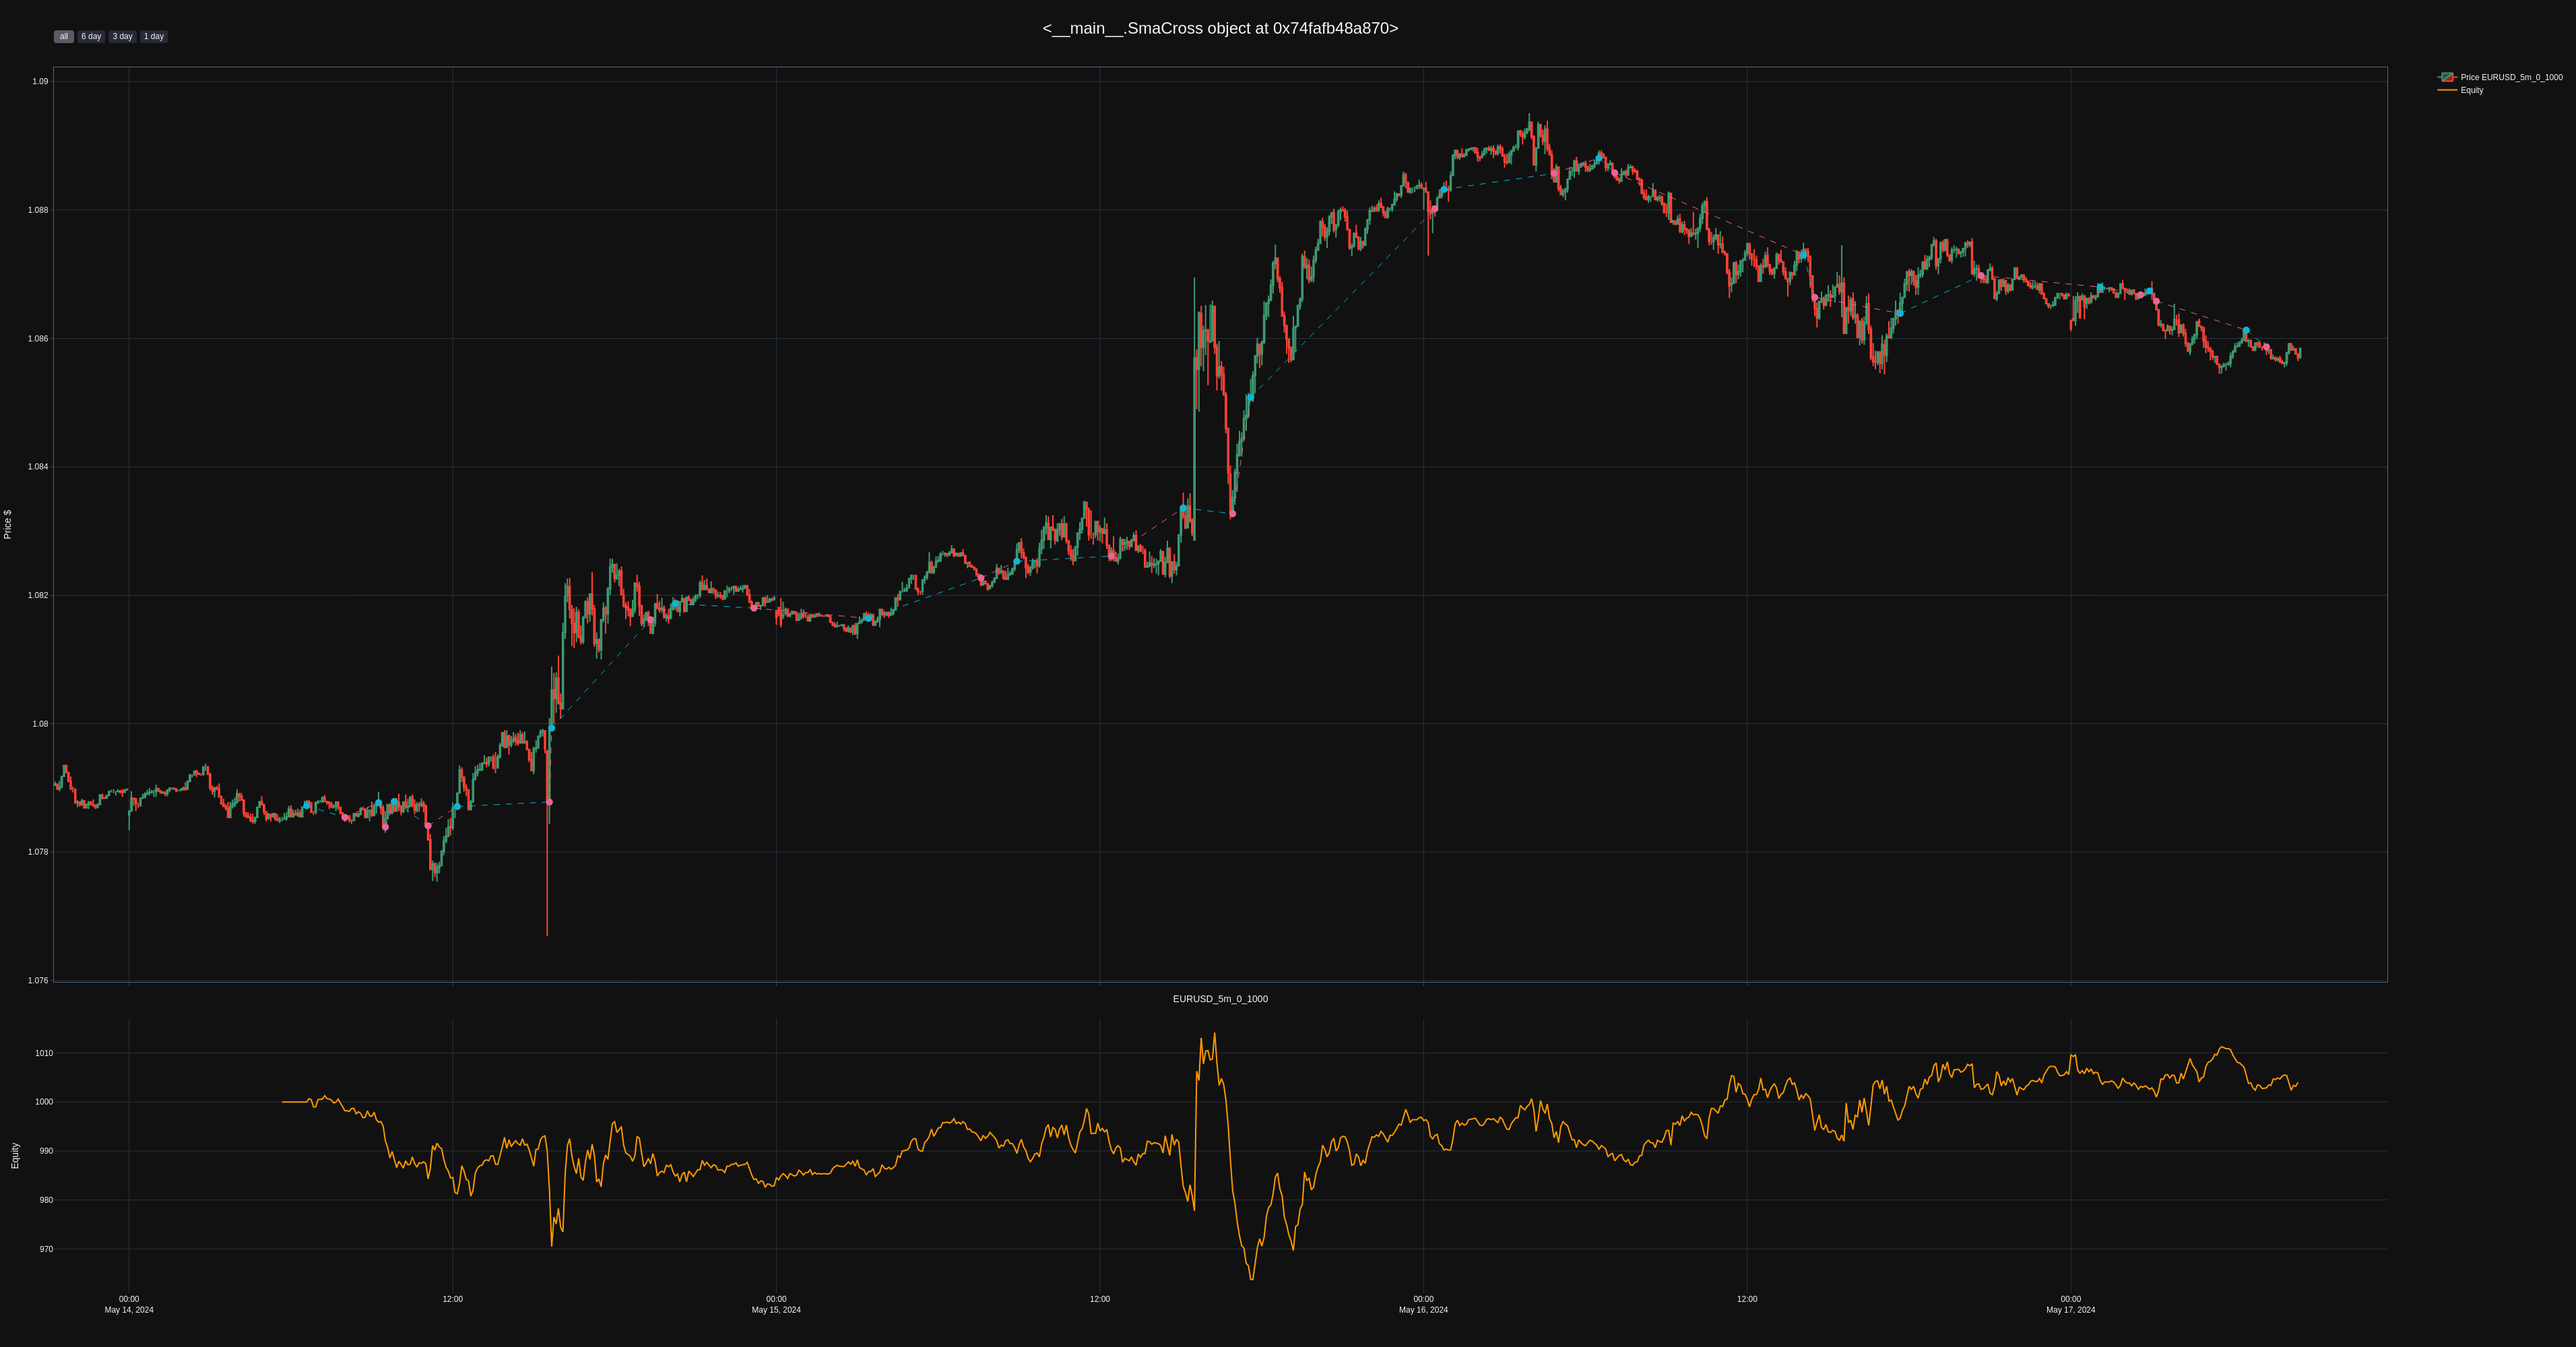
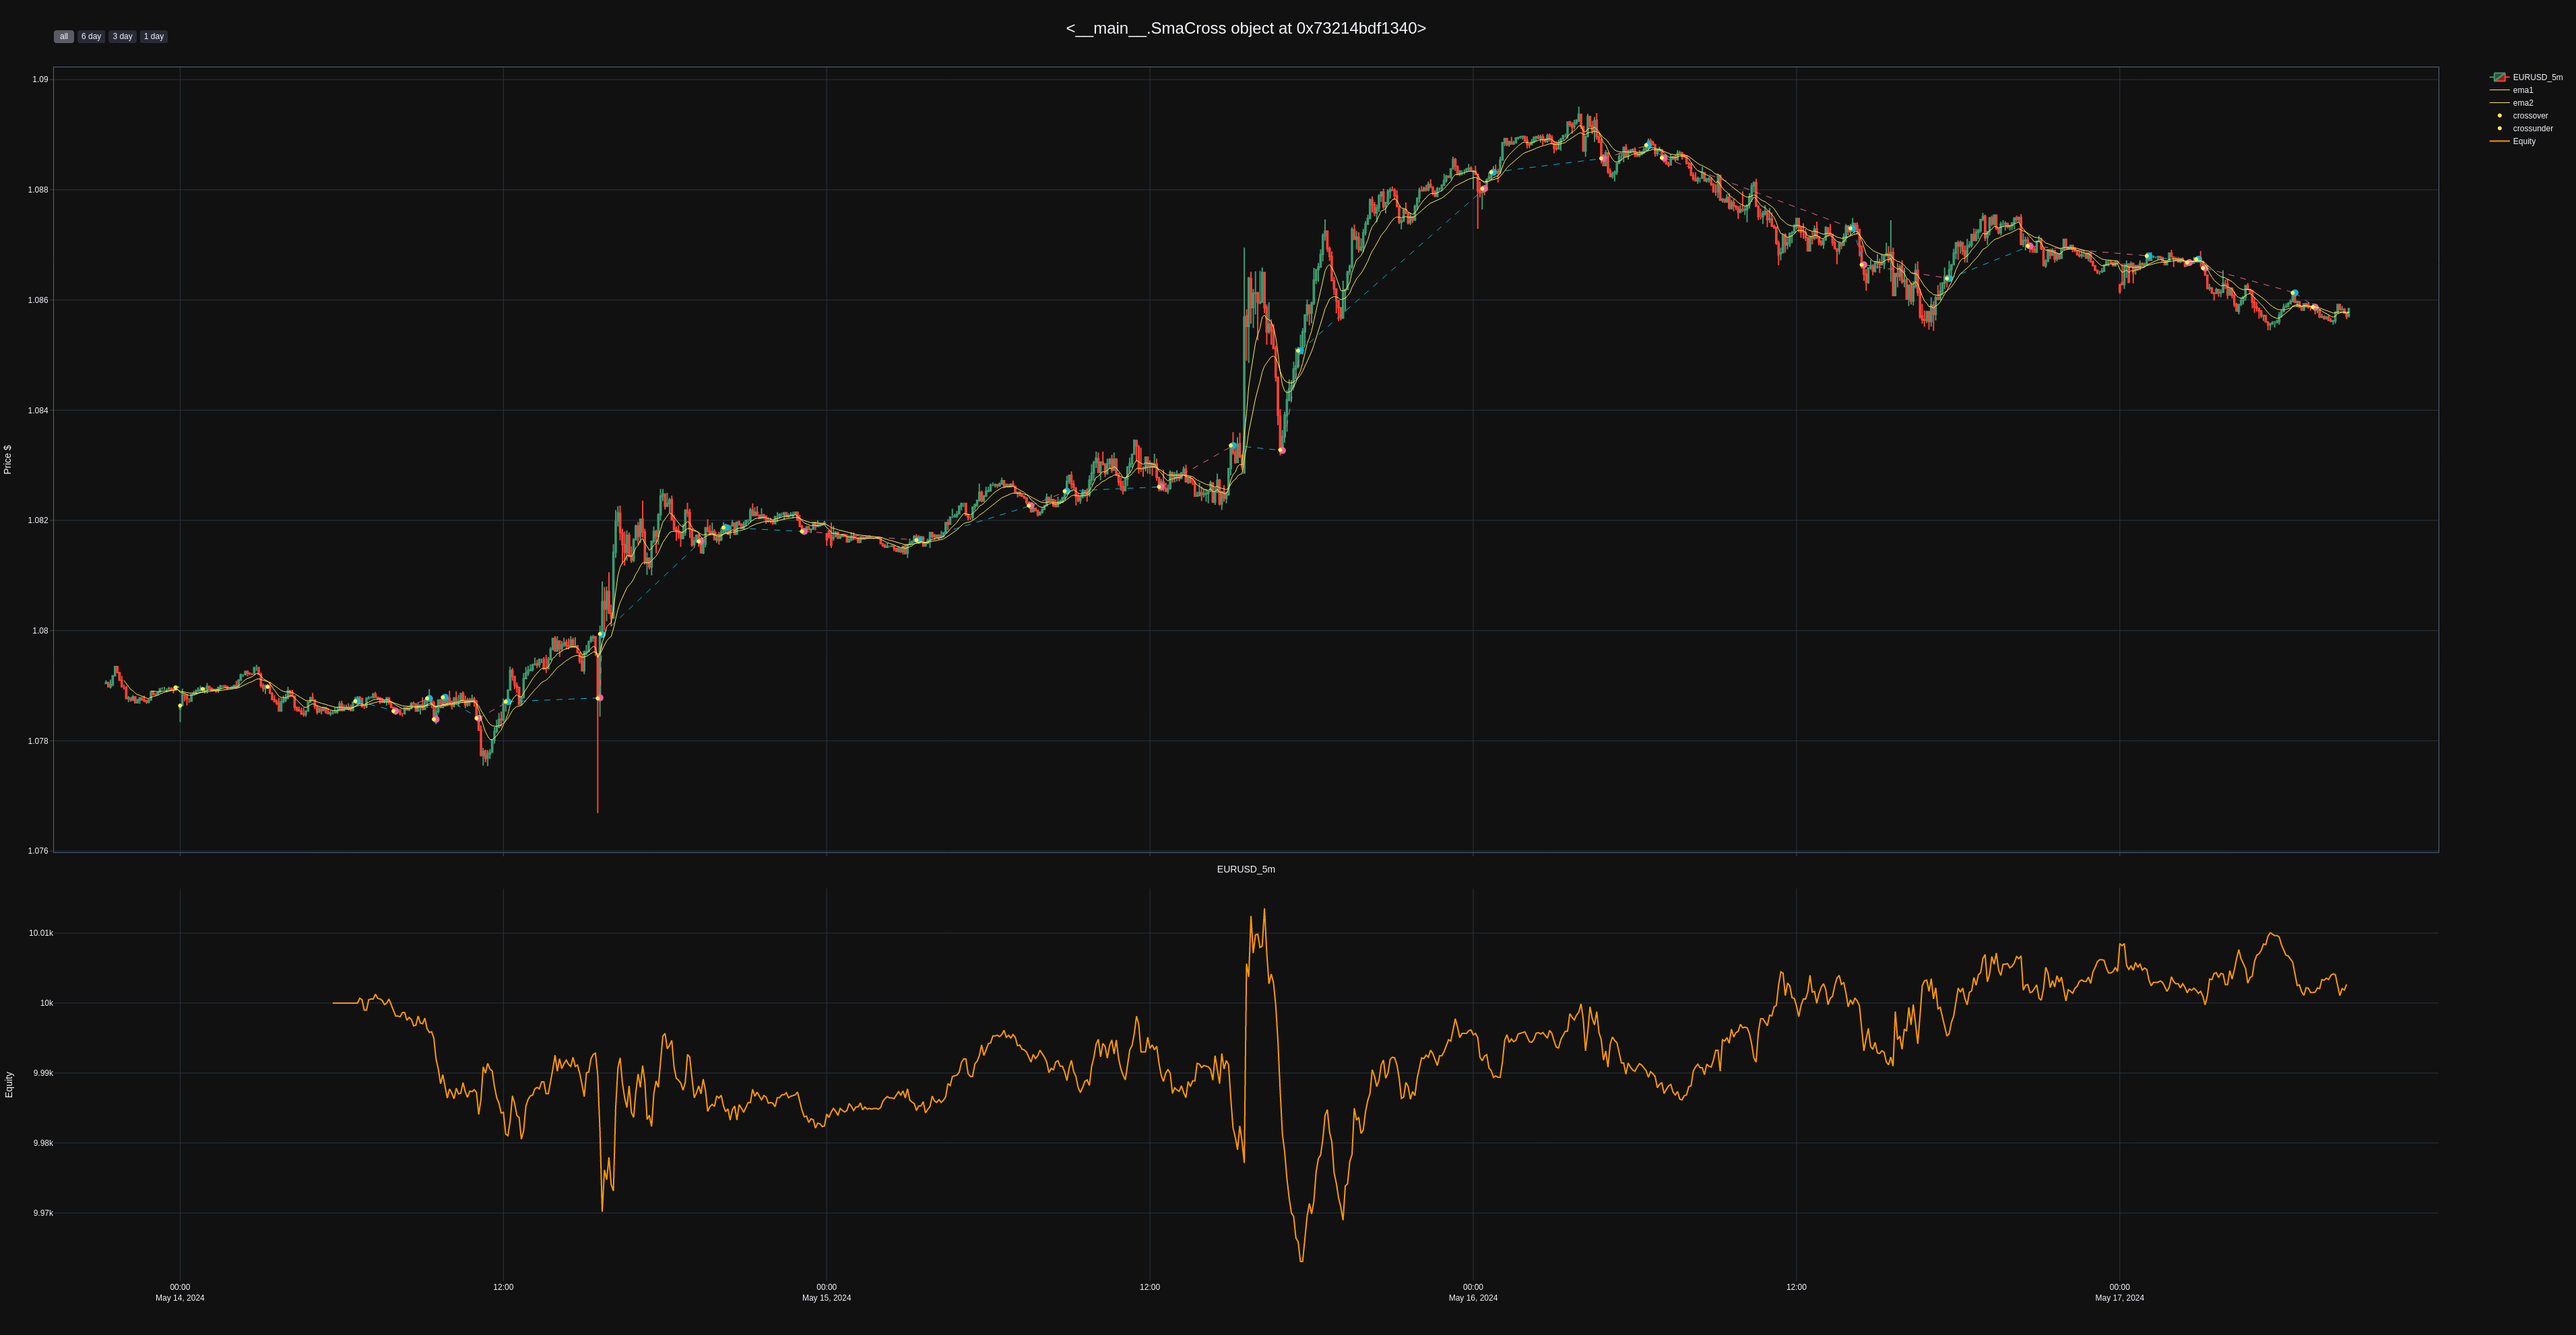
ReadMe.md

diff --git a/example/strategy/readme.py b/example/strategy/readme.py
@@ -1,6 +1,3 @@
-import talib.abstract as ta
-
-from lettrade import indicator as i
 from lettrade.all import DataFeed, ForexBackTestAccount, Strategy, let_backtest
 
 
@@ -9,32 +6,19 @@ class SmaCross(Strategy):
     ema2_window = 21
 
     def indicators(self, df: DataFeed):
-        df["ema1"] = ta.EMA(df, timeperiod=self.ema1_window)
+        df.i.ema(name="ema1", window=self.ema1_window, inplace=True, plot=True)
         df.i.ema(name="ema2", window=self.ema2_window, inplace=True, plot=True)
 
-        df["crossover"] = i.crossover(df.ema1, df.ema2)
+        df.i.crossover("ema1", "ema2", inplace=True, plot=True)
         df.i.crossunder("ema1", "ema2", inplace=True, plot=True)
 
     def next(self, df: DataFeed):
-        if df.l.crossover[-1]:
+        if df.l.crossover[-1] >= 100:
             self.positions_exit()
             self.buy(size=0.1)
-        elif df.l.crossunder[-1]:
+        elif df.l.crossunder[-1] <= -100:
             self.positions_exit()
             self.sell(size=0.1)
-
-    def plot(self, df: DataFeed) -> dict:
-        from lettrade.plot.plotly import PlotColor, plot_line, plot_mark, plot_merge
-
-        plot_ema1 = plot_line(df["ema1"], dataframe=df, color="green")
-        plot_crossover = plot_mark(
-            df["close"],
-            filter=df["crossover"] >= 100,
-            dataframe=df,
-            name="crossover",
-            color=PlotColor.BLUE,
-        )
-        return plot_merge(plot_ema1, plot_crossover)
 
 
 if __name__ == "__main__":

diff --git a/README.md b/README.md
@@ -32,9 +32,6 @@ pip install 'lettrade[all] @ git+https://git@github.com/AwesomeTrading/LetTrade.
 ## Example
 
 ```python
-import talib.abstract as ta
-
-from lettrade import indicator as i
 from lettrade.all import DataFeed, ForexBackTestAccount, Strategy, let_backtest
 
 
@@ -43,32 +40,19 @@ class SmaCross(Strategy):
     ema2_window = 21
 
     def indicators(self, df: DataFeed):
-        df["ema1"] = ta.EMA(df, timeperiod=self.ema1_window)
+        df.i.ema(name="ema1", window=self.ema1_window, inplace=True, plot=True)
         df.i.ema(name="ema2", window=self.ema2_window, inplace=True, plot=True)
 
-        df["crossover"] = i.crossover(df.ema1, df.ema2)
+        df.i.crossover("ema1", "ema2", inplace=True, plot=True)
         df.i.crossunder("ema1", "ema2", inplace=True, plot=True)
 
     def next(self, df: DataFeed):
-        if df.l.crossover[-1]:
+        if df.l.crossover[-1] >= 100:
             self.positions_exit()
             self.buy(size=0.1)
-        elif df.l.crossunder[-1]:
+        elif df.l.crossunder[-1] <= -100:
             self.positions_exit()
             self.sell(size=0.1)
-
-    def plot(self, df: DataFeed) -> dict:
-        from lettrade.plot.plotly import PlotColor, plot_line, plot_mark, plot_merge
-
-        plot_ema1 = plot_line(df["ema1"], dataframe=df, color="green")
-        plot_crossover = plot_mark(
-            df["close"],
-            filter=df["crossover"] >= 100,
-            dataframe=df,
-            name="crossover",
-            color=PlotColor.BLUE,
-        )
-        return plot_merge(plot_ema1, plot_crossover)
 
 
 if __name__ == "__main__":
